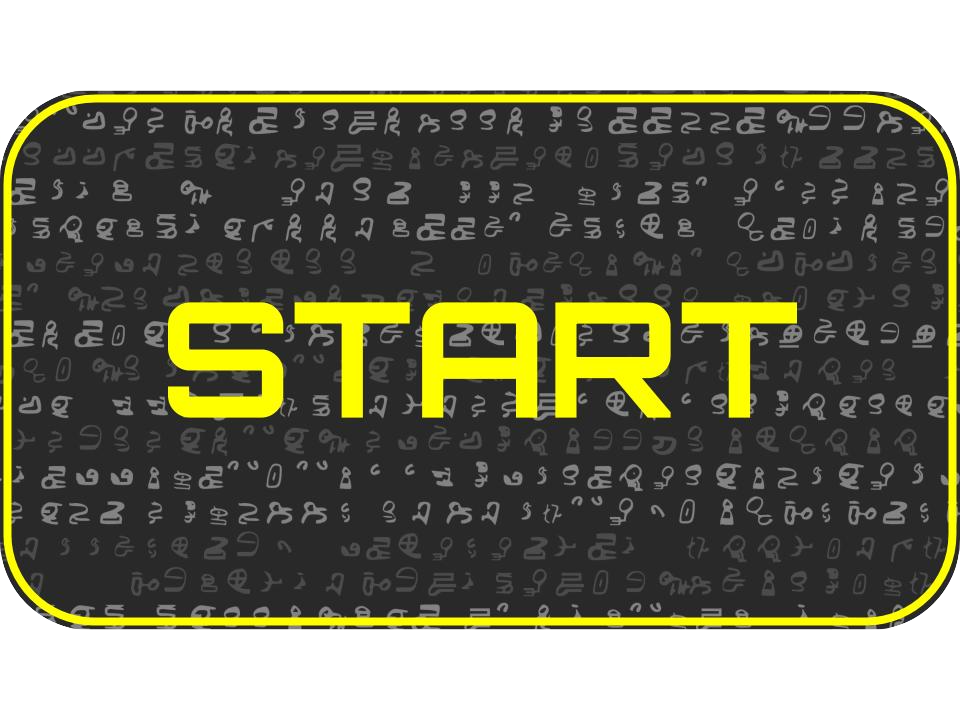
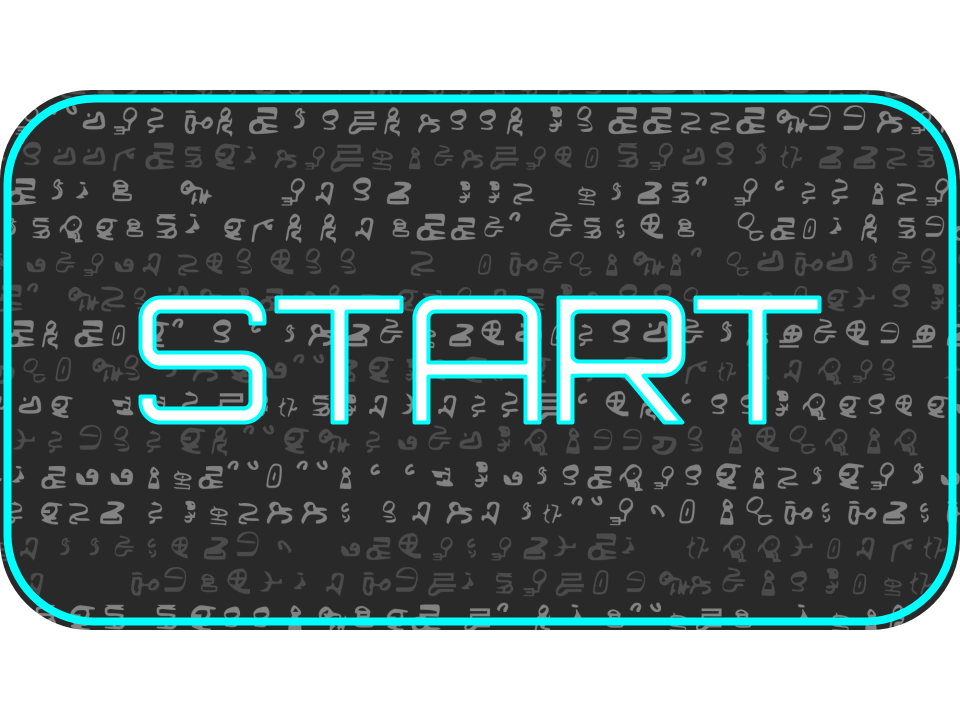
changes to MainMenu

Changed region(s): [[0.125, 0.3972, 0.875, 0.6111], [0.0, 0.1222, 1.0, 0.825], [0.0312, 0.825, 0.9688, 0.8861]]

diff --git a/src/MainMenu.java b/src/MainMenu.java
@@ -63,27 +63,27 @@ public class MainMenu extends JPanel implements ActionListener, MouseListener {
 		
 		loadImages();
 		
-		startButton = new Button(402, 180, 96, 72, startBDImg, startBHImg);
+		startButton = new Button(402, 200, 96, 72, startBDImg, startBHImg);
 		startButton.addAL(this);
 		startButton.setOpaque(false);
 		startButton.setContentAreaFilled(false);
 		startButton.setBorderPainted(false);
 		this.add(startButton);
-		
-		helpButton = new Button(402, 300, 96, 72, helpBDImg, helpBHImg);
+
+		helpButton = new Button(402, 275, 96, 72, helpBDImg, helpBHImg);
 		helpButton.addAL(this);
 		helpButton.setOpaque(false);
 		helpButton.setContentAreaFilled(false);
 		helpButton.setBorderPainted(false);
 		this.add(helpButton);
-		
-		creditsButton = new Button(402, 390, 96, 72, helpBDImg, helpBHImg);
+
+		creditsButton = new Button(402, 350, 96, 72, creditsBDImg, creditsBHImg);
 		creditsButton.addAL(this);
 		creditsButton.setOpaque(false);
 		creditsButton.setContentAreaFilled(false);
 		creditsButton.setBorderPainted(false);
 		this.add(creditsButton);
-		
+
 		startButton.addMouseListener(this);
 		helpButton.addMouseListener(this);
 		creditsButton.addMouseListener(this);
@@ -100,11 +100,11 @@ public class MainMenu extends JPanel implements ActionListener, MouseListener {
 			helpBDImg = ImageIO.read(MainMenu.class.getResourceAsStream("helpButtonD.png"));
 			helpBHImg = ImageIO.read(MainMenu.class.getResourceAsStream("helpButtonH.png"));
 			creditsBDImg = ImageIO.read(MainMenu.class.getResourceAsStream("creditsButtonD.png"));
-			creditsBHImg = ImageIO.read(MainMenu.class.getResourceAsStream("creditsButtonD.png"));
-			backgroundImg = ImageIO.read(MainMenu.class.getResourceAsStream("Background.png"));
-			//System.out.println("all images were loaded");
+			creditsBHImg = ImageIO.read(MainMenu.class.getResourceAsStream("creditsButtonH.png"));
+			backgroundImg = ImageIO.read(MainMenu.class.getResourceAsStream("titlePage.jpg"));
+			System.out.println("all images were loaded");
 		} catch (IOException e) {
-			//System.out.println("could not load some images");
+			System.out.println("could not load some images");
 			e.printStackTrace();
 		}
 	}
@@ -120,12 +120,6 @@ public class MainMenu extends JPanel implements ActionListener, MouseListener {
 	
 	public void drawMainMenu(Graphics g) {
 		g.drawImage(backgroundImg, 0, 0, null);
-
-		// replace this with a picture of the title
-		g.setColor(Color.white);
-		g.setFont(new Font("utowide", Font.PLAIN, 25));
-		g.drawString("BladeWatch", 390, 100);
-
 		startButton.draw(g);
 		helpButton.draw(g);
 		creditsButton.draw(g);
@@ -134,17 +128,12 @@ public class MainMenu extends JPanel implements ActionListener, MouseListener {
 	public void drawHelp(Graphics g) {
 		g.drawImage(backgroundImg, 0, 0, null);
 
-		// replace this with a picture of the title
-		g.setFont(new Font("Times New Roman", Font.PLAIN, 35));
-		g.drawString("Help", 390, 100);
 	}
+
 
 	@Override
 	public void actionPerformed(ActionEvent e) {
 		repaint();
-		
-		
-		
 		if (e.getSource().equals(startButton)) {
 			System.out.println("Start");
 			gameState = "Game";
@@ -166,20 +155,19 @@ public class MainMenu extends JPanel implements ActionListener, MouseListener {
 
 	@Override
 	public void mouseEntered(MouseEvent arg0) {
-		if(arg0.getSource().equals(startButton)) {
+		if(arg0.getSource().equals(startButton)) 
 			startButton.hoverButton();
-		}
-		else if(arg0.getSource().equals(helpButton)) {
+		else if(arg0.getSource().equals(helpButton)) 
 			helpButton.hoverButton();
-		}
+		else if(arg0.getSource().equals(creditsButton))
+			creditsButton.hoverButton();
 		repaint();
 	}
 
 	@Override
 	public void mouseExited(MouseEvent arg0) {
-		if(arg0.getSource().equals(startButton)) {
+		if(arg0.getSource().equals(startButton)) 
 			startButton.defaultButton();
-		}
 		else if(arg0.getSource().equals(helpButton))
 			helpButton.defaultButton();
 		else if(arg0.getSource().equals(creditsButton))
